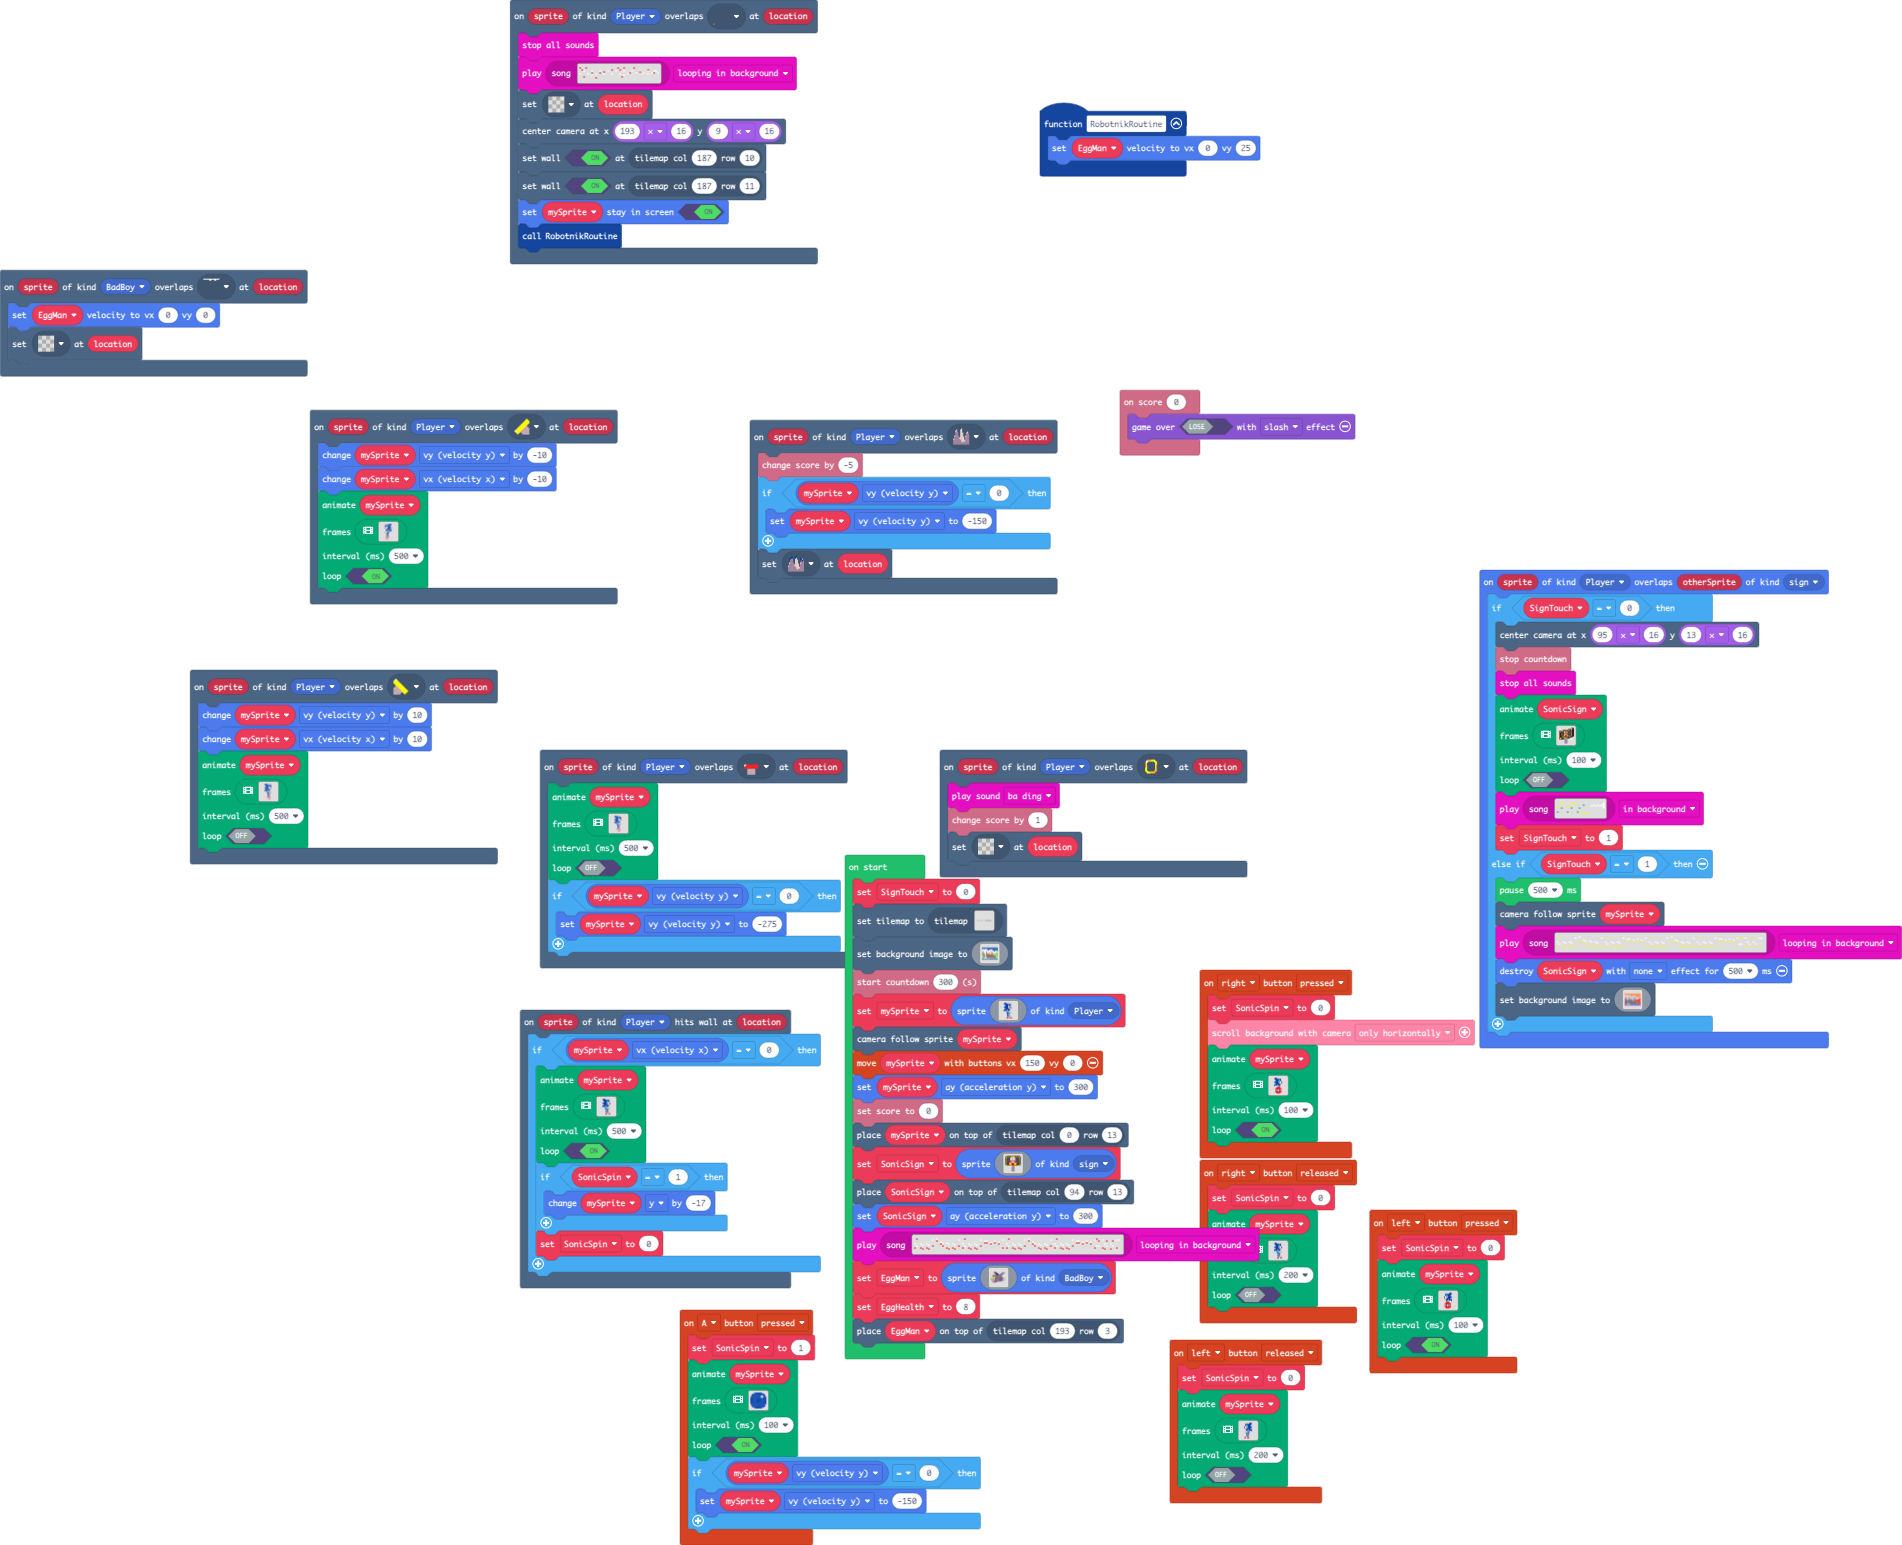
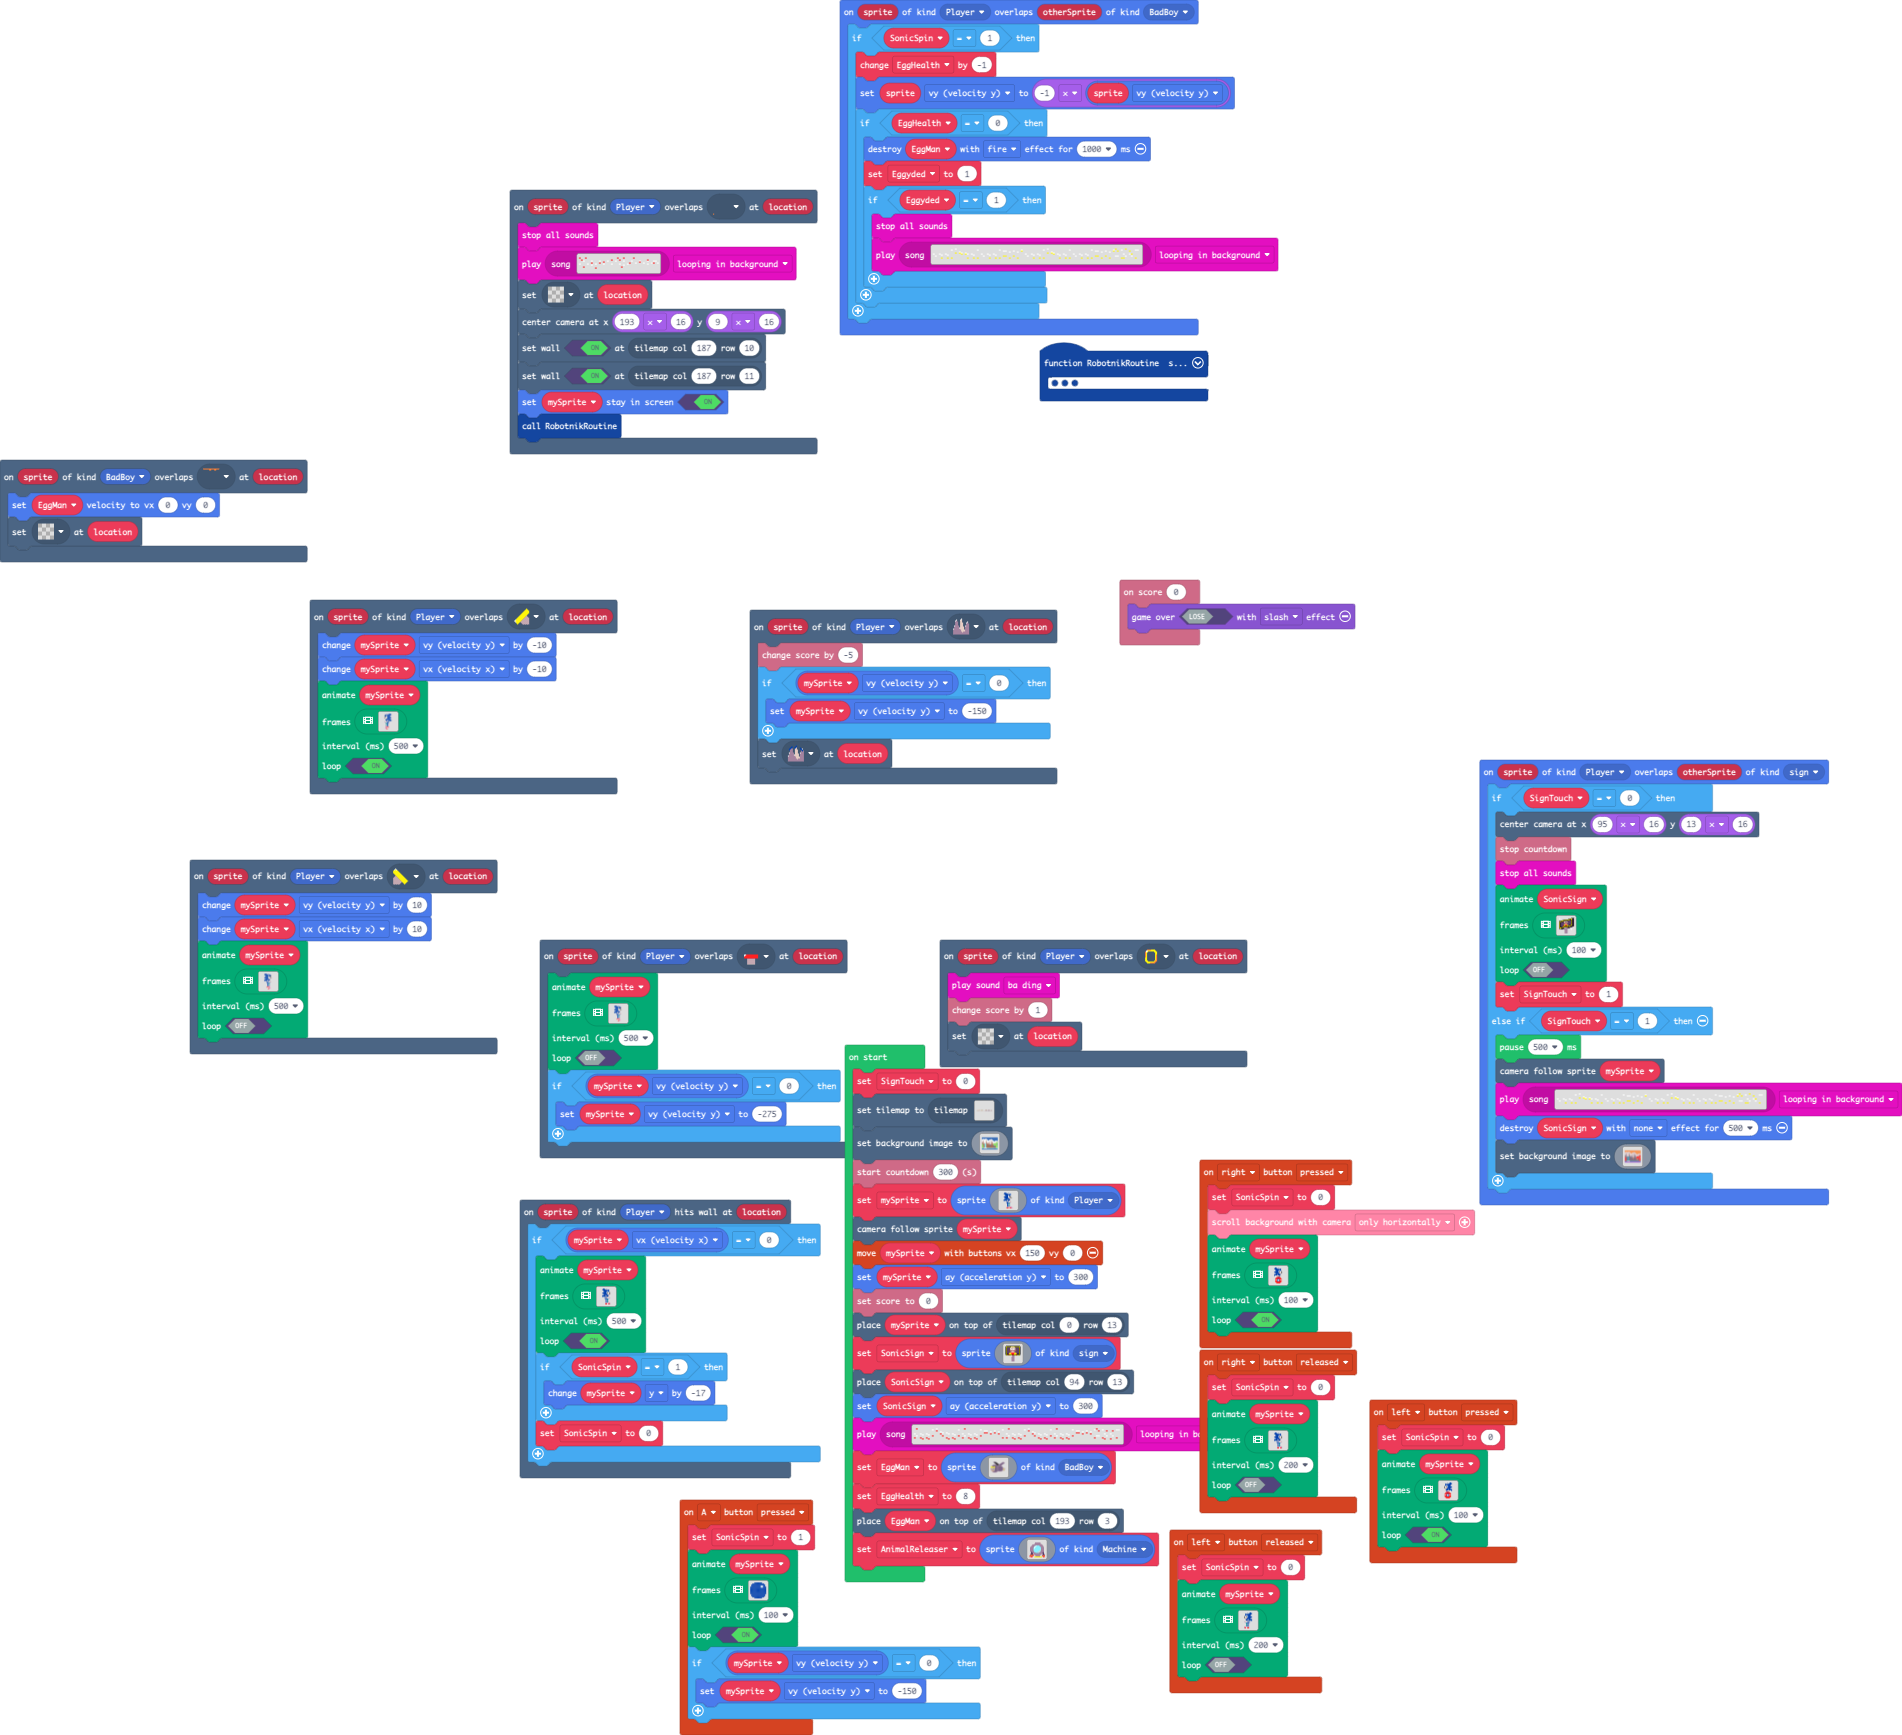
Update main.blocks, main.ts, tilemap.g.jres

diff --git a/main.ts b/main.ts
@@ -1,6 +1,7 @@
 namespace SpriteKind {
     export const sign = SpriteKind.create()
     export const BadBoy = SpriteKind.create()
+    export const Machine = SpriteKind.create()
 }
 function RobotnikRoutine () {
     EggMan.setVelocity(0, 25)
@@ -455,16 +456,48 @@ sprites.onOverlap(SpriteKind.Player, SpriteKind.sign, function (sprite, otherSpr
             .............bbbbbb.............
             .............bbbbbb.............
             .............bbbbbb.............
+            `,img`
+            ................................
+            ..ffffffffffffffffffffffffffff..
+            .f5555555555555588555855555555f.
+            .f5ffffffffffff8dd8f88fffffff5f.
+            .f5f228888888888dd8888222222f5f.
+            .f5f288888888888888882222222f5f.
+            .f5f222288888888188812222222f5f.
+            .f5f222222288888118112222222f5f.
+            .f5f2222228888881f81f2222222f5f.
+            .f5f2288888888881f11f2222222f5f.
+            .f5f2222888888881f11f2222222f5f.
+            .f5f22222228888dfdddfff22222f5f.
+            .f5f2222288828888fdd22222222f5f.
+            .f5f222888828888888882222222f5f.
+            .f5f222222228888888882222222f5f.
+            .f5f22222222888ddd8882222222f5f.
+            .f5f2222222288ddddd882222222f5f.
+            .f5ffffffffffffffffffffffffff5f.
+            .f5555555555555555555555555555f.
+            ..ffffffffffffffffffffffffffff..
+            .............11bbbb.............
+            .............1bbbbb.............
+            .............bbbbbb.............
+            .............bbbbbb.............
+            .............bbbbbb.............
+            .............bbbbbb.............
+            .............bbbbbb.............
+            .............bbbbbb.............
+            .............bbbbbb.............
+            .............bbbbbb.............
+            .............bbbbbb.............
+            .............bbbbbb.............
             `],
         100,
         false
         )
[1 lines of base64/hex data omitted]
         SignTouch = 1
     } else if (SignTouch == 1) {
         pause(500)
         scene.cameraFollowSprite(mySprite)
[2 lines of base64/hex data omitted]
         sprites.destroy(SonicSign, effects.none, 500)
         scene.setBackgroundImage(img`
             4444444444444444444444444444444444444444444444444444444444444444444444444444444444444444444444444444444444444444444444444444444444444444444444444444444444444444
@@ -664,6 +697,20 @@ controller.A.onEvent(ControllerButtonEvent.Pressed, function () {
     )
     if (mySprite.vy == 0) {
         mySprite.vy = -150
+    }
+})
+sprites.onOverlap(SpriteKind.Player, SpriteKind.BadBoy, function (sprite, otherSprite) {
+    if (SonicSpin == 1) {
+        EggHealth += -1
+        sprite.vy = -1 * sprite.vy
+        if (EggHealth == 0) {
+            sprites.destroy(EggMan, effects.fire, 1000)
+            Eggyded = 1
+            if (Eggyded == 1) {
+                music.stopAllSounds()
[1 lines of base64/hex data omitted]
+            }
+        }
     }
 })
 scene.onOverlapTile(SpriteKind.Player, assets.tile`myTile4`, function (sprite, location) {
@@ -1072,7 +1119,9 @@ scene.onOverlapTile(SpriteKind.Player, assets.tile`myTile11`, function (sprite, 
     false
     )
 })
+let Eggyded = 0
 let SonicSpin = 0
+let EggHealth = 0
 let EggMan: Sprite = null
 let SonicSign: Sprite = null
 let mySprite: Sprite = null
@@ -1157,5 +1206,39 @@ EggMan = sprites.create(img`
     ......bbcccccccccbb............................
     ........bbbbbbbbb..............................
     `, SpriteKind.BadBoy)
-let EggHealth = 8
+EggHealth = 8
 tiles.placeOnTile(EggMan, tiles.getTileLocation(193, 3))
+let AnimalReleaser = sprites.create(img`
+    ................................
+    ................................
+    ............bbbbbbbbbbb.........
+    ............bbbbbbbbbbb.........
+    ............bbbbbbbbbbb.........
+    ..........bbbbbbbbbbbbbbb.......
+    .......bbbbbbbbbbbbbbbbbbb......
+    ......bbbbbbbbbbbbbbbbbbbbbb....
+    ......bbbbbbb9999999bbbbbbbb....
+    ....bbbbbbb99111999999bbbbbbb...
+    ....bbbbbb9111999999999bbbbbb...
+    ..bbbbbbbb9119999999999bbbbbbb..
+    ..bbbbbbb911999999999999bbbbbb..
+    ..bbbbbbb919999999999999bbbbbb..
+    ..bbbbbbb919999999999999bbbbbb..
+    ..bbbbbbb999999999999999bbbbbb..
+    ..bbbbbbb9999999999999d9bbbbbb..
+    ..bbbbbbb9999999999999d9bbbbbb..
+    ..bbbbbbb999999999999dd9bbbbbb..
+    ..bbbbbbbb9999999999dd9bbbbbbb..
+    ..bbbbbbbb999999999ddd9bbbbbbb..
+    ....ccbbbbb999999ddd99bbbbbbbc..
+    ....cccbbbbbb9999999bbbbbbbbcc..
+    ....ccccbbbbbbbbbbbbbbbbbbcccc..
+    ...cccccbbbbbbbbbbbbbbbbbb.ccc..
+    ...ccccc..bbbbbbbbbbbbbbb..cccc.
+    ...ccccc2.bbbbbbbbbbbbbbb..cccc.
+    ..24444422..bbbbbbbbbbb....cccc2
+    .224444422...bbbbbbbbb....244442
+    .2244422.....bbbbbbbbb....224442
+    .2222222.11555555555555555..2422
+    ....22...15555555555555555..22..
+    `, SpriteKind.Machine)
